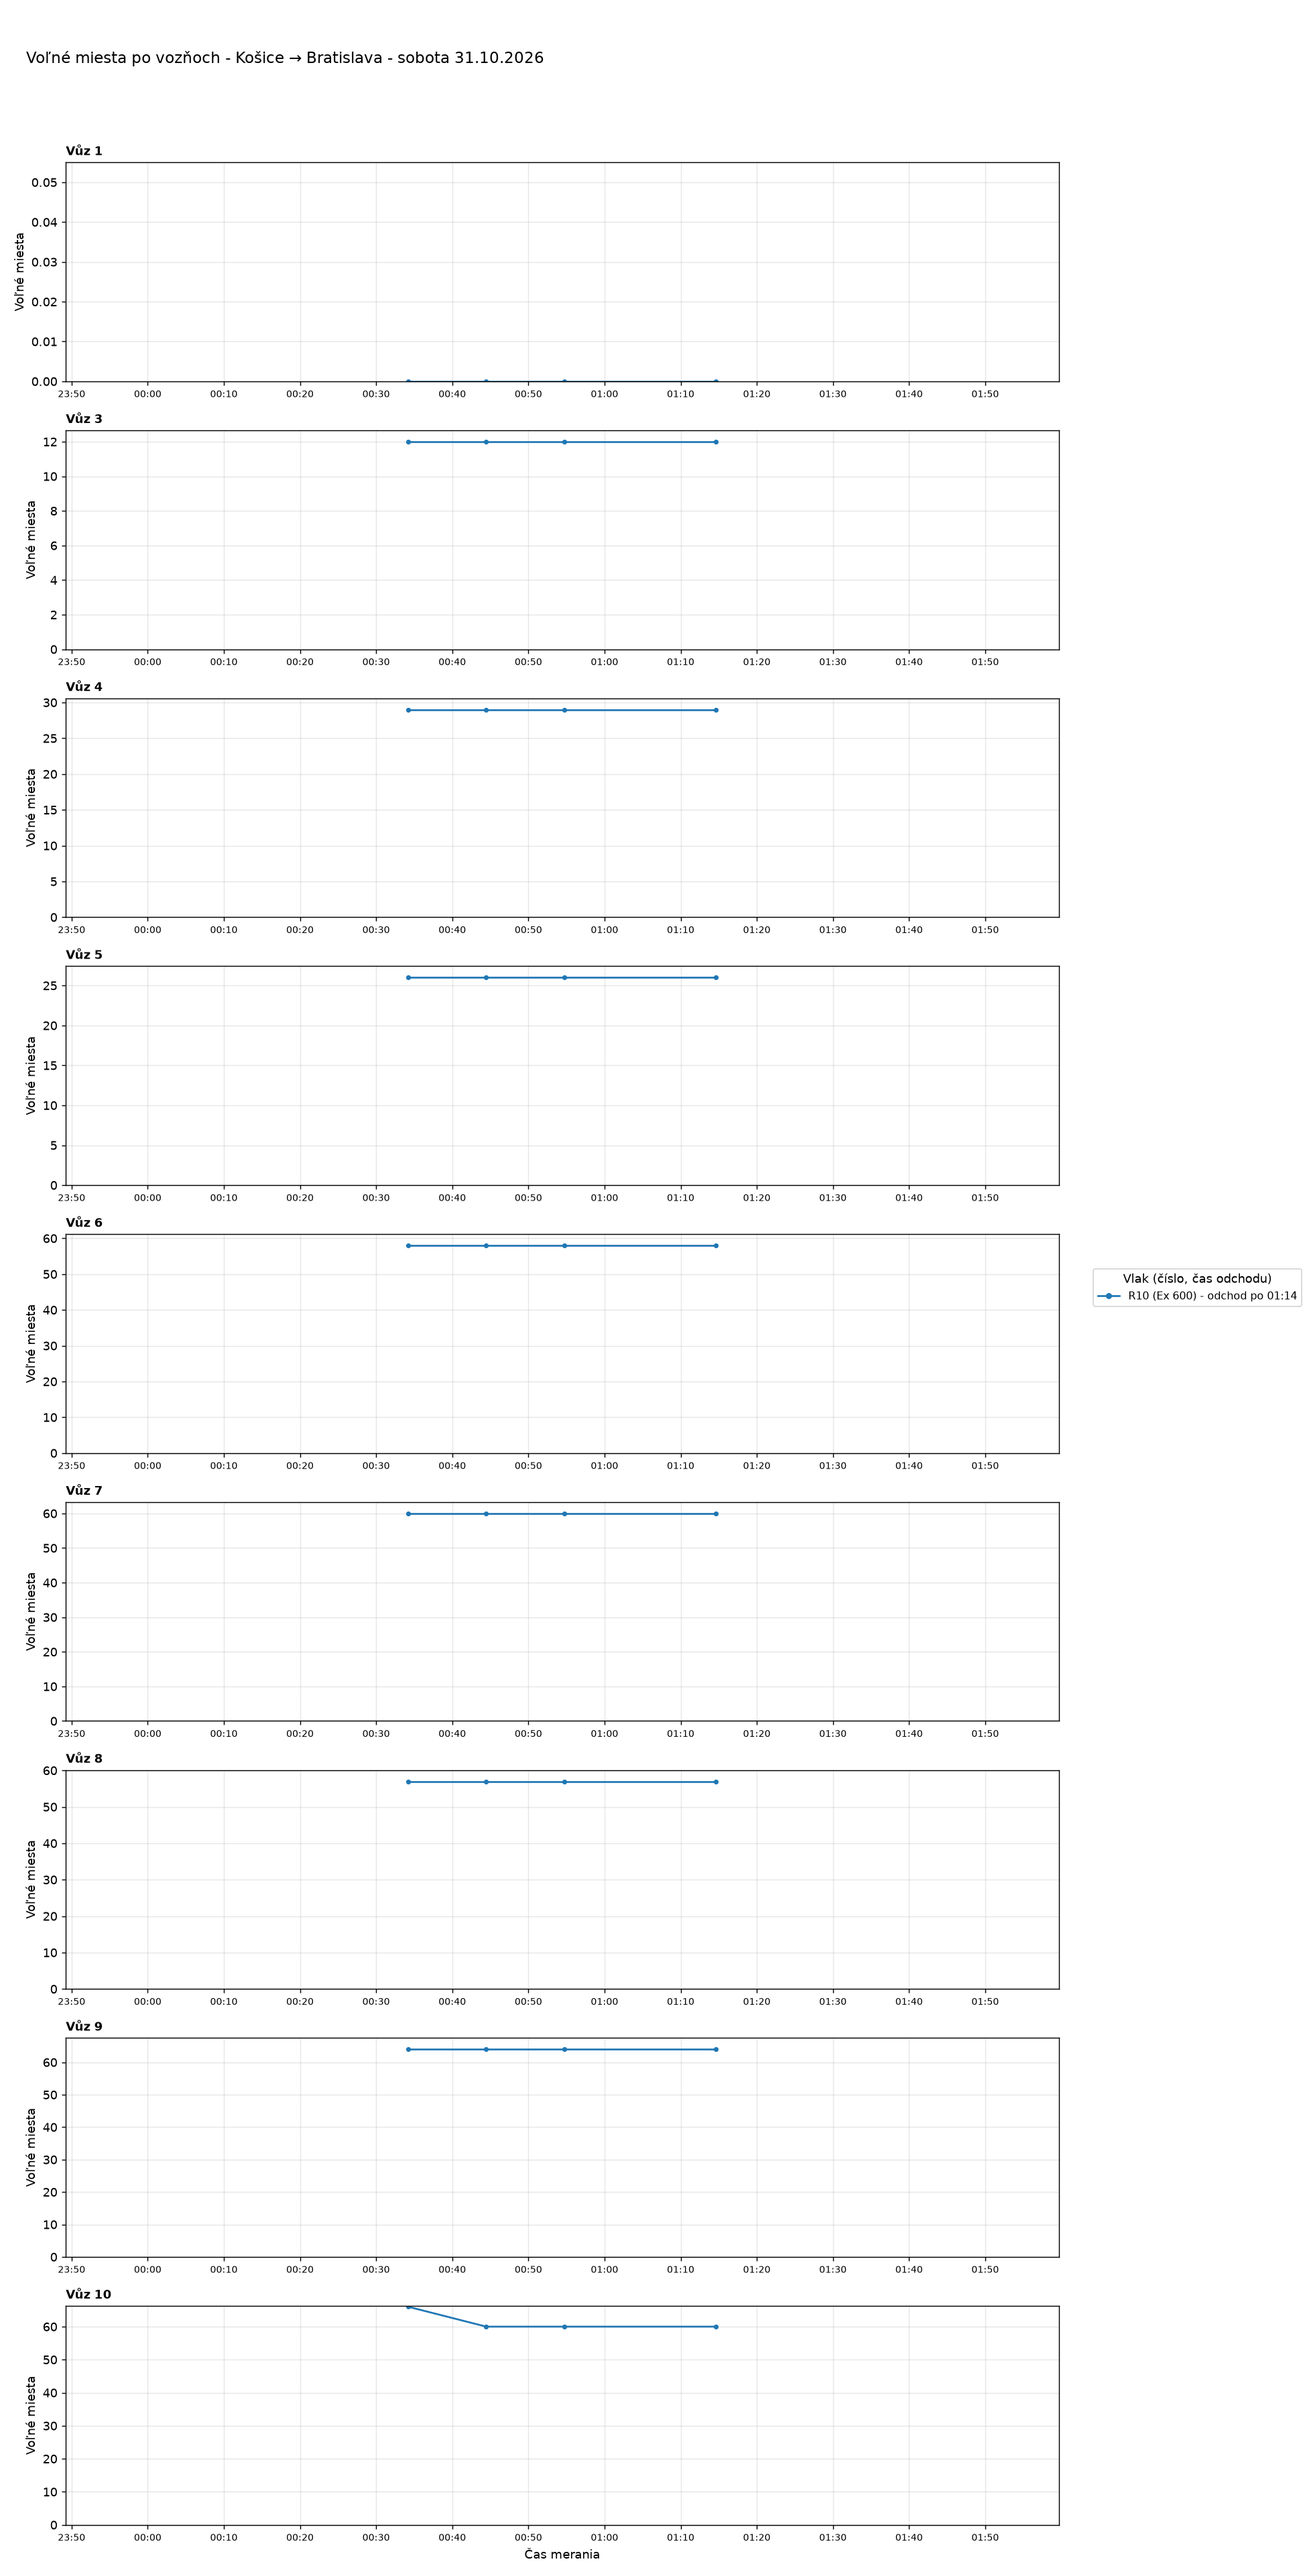
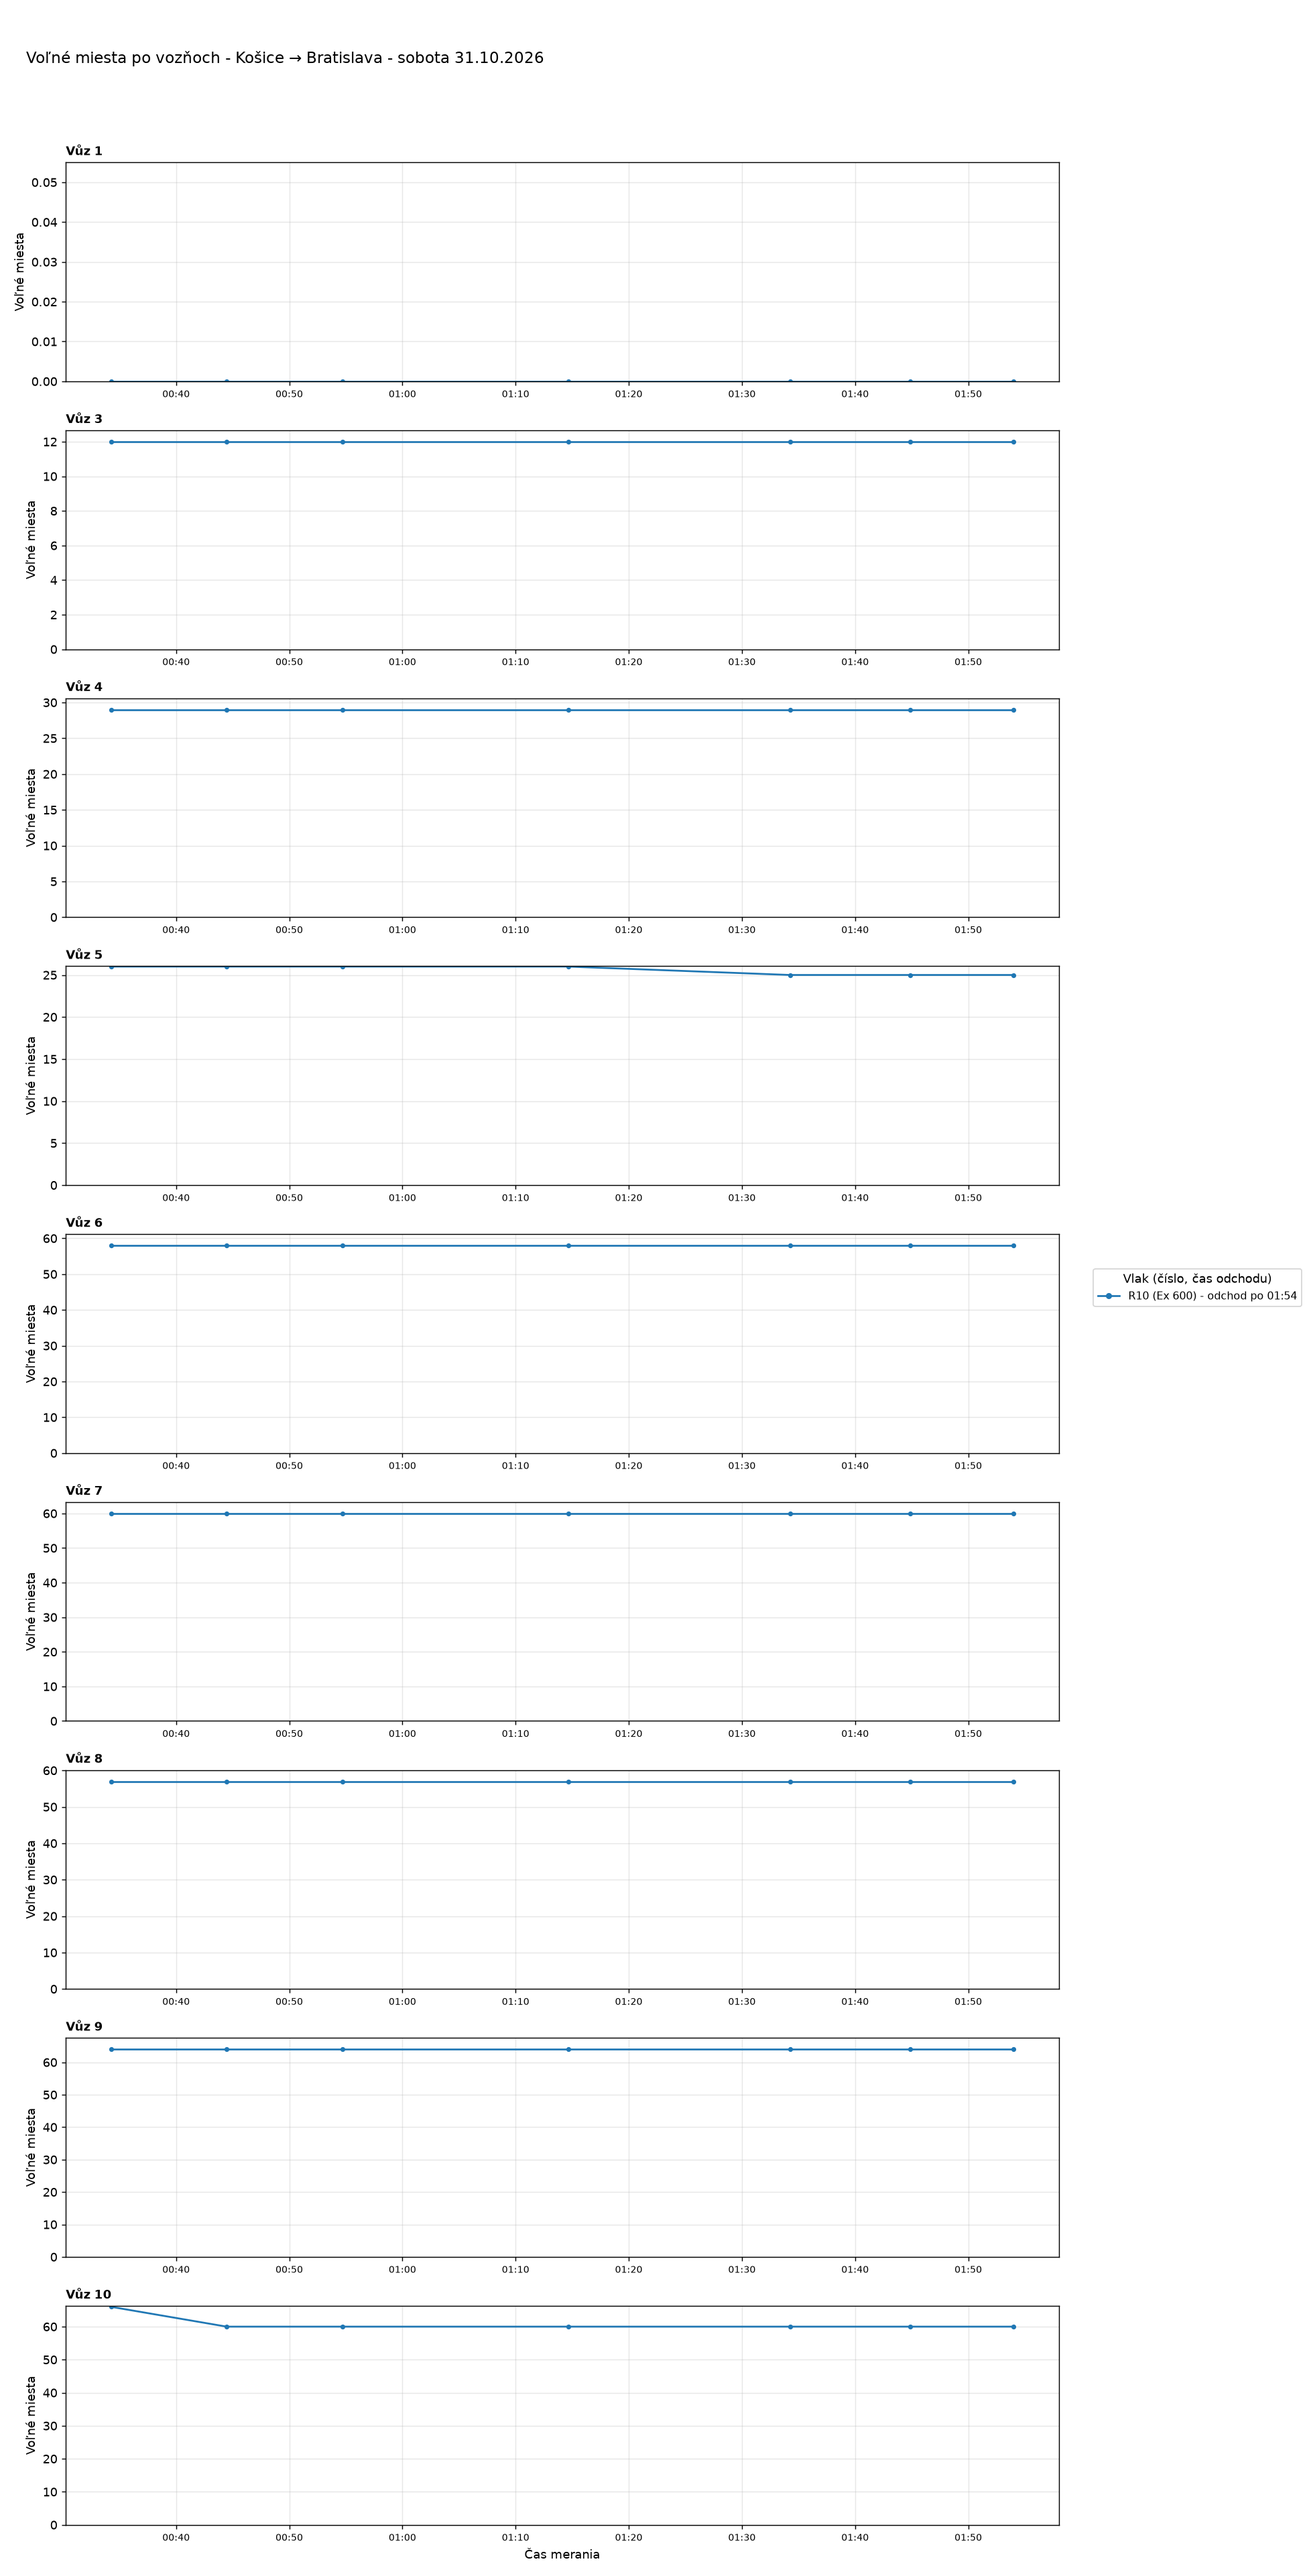
Aktualizácia grafov 2026-10-31 02:20

diff --git a/index.html b/index.html
@@ -37,7 +37,7 @@ details.trasa>summary{cursor:pointer;font-weight:600;font-size:1.1rem;padding:8p
 <body>
 <main>
 <h1>Voľné miesta vo vlakoch</h1>
-<p class="muted">Posledné meranie: 31.10.2026 01:14 ·
+<p class="muted">Posledné meranie: 31.10.2026 02:13 ·
 <a href="data/obsadenost_data.csv">stiahnuť dáta (CSV)</a></p>
 <nav class="nav"><a href="#suhrn">Súhrn</a><a href="#statistiky">Štatistiky</a><a href="#historia">História grafov</a></nav>
 
@@ -46,9 +46,9 @@ details.trasa>summary{cursor:pointer;font-weight:600;font-size:1.1rem;padding:8p
 <div class="tablewrap"><table>
 <thead><tr><th>Deň</th><th>Trasa</th><th>Meraní</th><th>Vlakov</th><th>Čas meraní</th></tr></thead>
 <tbody>
-<tr><td><a href="#dBA-VR-2026-10-31">sobota 31.10.2026</a></td><td>Bratislava → Vrútky</td><td>5</td><td>1</td><td>00:21-01:11</td></tr>
-<tr><td><a href="#dBA-KE-2026-10-31">sobota 31.10.2026</a></td><td>Bratislava → Košice</td><td>6</td><td>1</td><td>00:23-01:13</td></tr>
-<tr><td><a href="#dKE-BA-2026-10-31">sobota 31.10.2026</a></td><td>Košice → Bratislava</td><td>4</td><td>1</td><td>00:34-01:14</td></tr>
+<tr><td><a href="#dBA-VR-2026-10-31">sobota 31.10.2026</a></td><td>Bratislava → Vrútky</td><td>10</td><td>1</td><td>00:21-02:01</td></tr>
+<tr><td><a href="#dBA-KE-2026-10-31">sobota 31.10.2026</a></td><td>Bratislava → Košice</td><td>11</td><td>2</td><td>00:23-02:13</td></tr>
+<tr><td><a href="#dKE-BA-2026-10-31">sobota 31.10.2026</a></td><td>Košice → Bratislava</td><td>7</td><td>1</td><td>00:34-01:54</td></tr>
 <tr><td><a href="#dBA-VR-2026-10-30">piatok 30.10.2026</a></td><td>Bratislava → Vrútky</td><td>68</td><td>16</td><td>00:31-23:31</td></tr>
 <tr><td><a href="#dVR-BA-2026-10-30">piatok 30.10.2026</a></td><td>Vrútky → Bratislava</td><td>56</td><td>14</td><td>02:52-21:02</td></tr>
 <tr><td><a href="#dBA-KE-2026-10-30">piatok 30.10.2026</a></td><td>Bratislava → Košice</td><td>52</td><td>12</td><td>00:22-23:12</td></tr>
